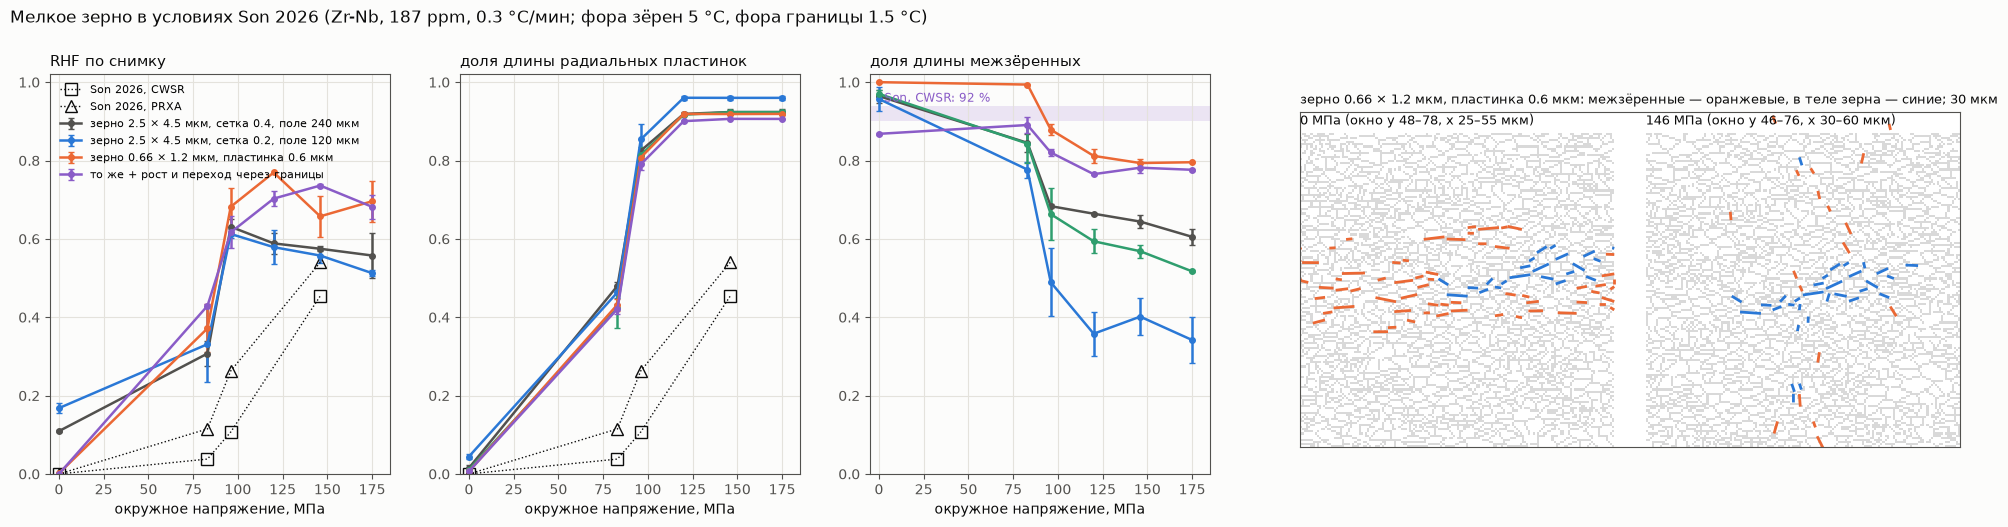
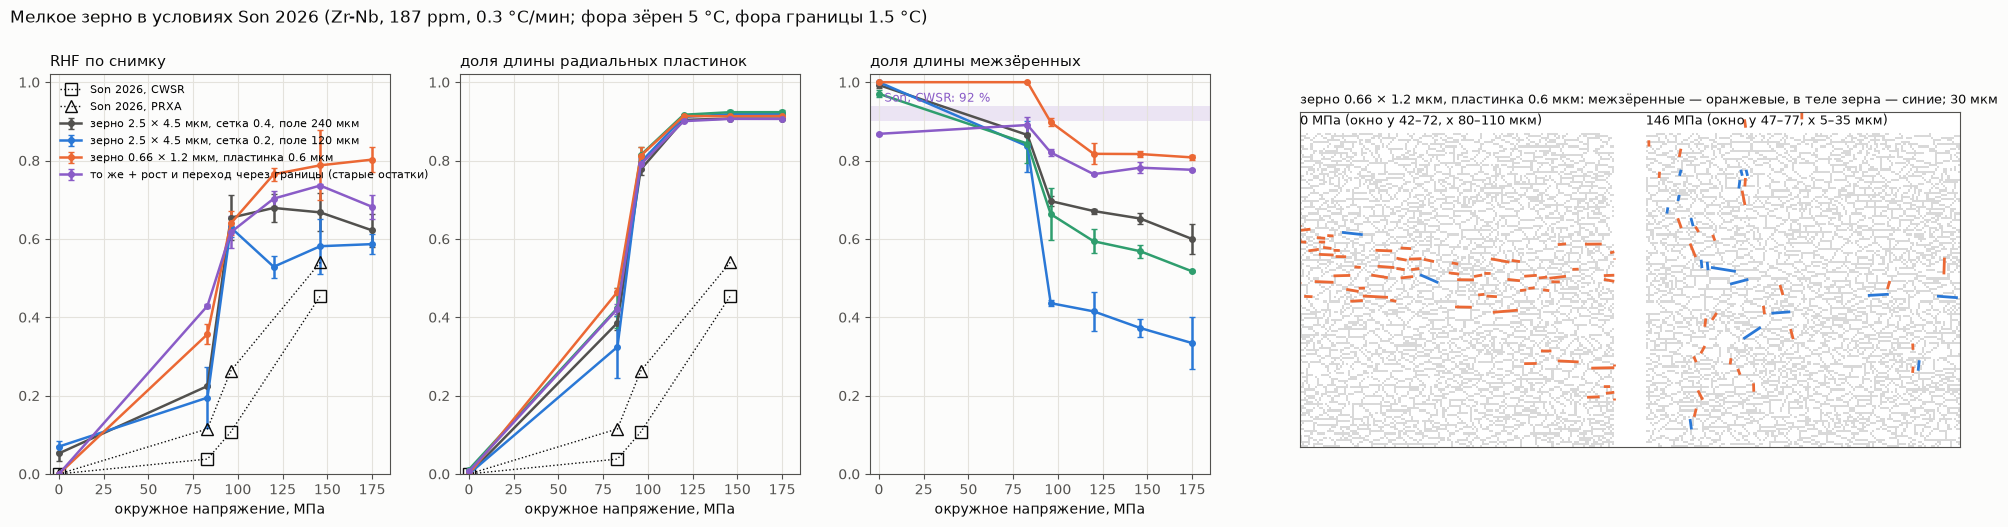
hydrides: мелкое зерно в условиях Son — плавного перехода не даёт; пересчёт с исправленными остатками
Доля радиальных пластинок от напряжения одна и та же при зерне 2.5 × 4.5 и
0.66 × 1.2 мкм, в масштабном подобии и при прежней толщине пластинки:
0.3–0.46 при 83 МПа, ~0.8 при 96, 0.9 выше 120. Мелкое зерно поднимает долю
межзёренных (0.81–0.90) и потолок на снимке. Шаг сетки на порог не влияет,
на долю межзёренных под нагрузкой — влияет. Сравнение с Son пересчитано с
исправленным выбором нерастворившихся гидридов (RHF без нагрузки 0.05).

Claude-Session: https://claude.ai/code/session_01UkwPYpG7i1Euptx7URcKD8

diff --git a/hydrides/automaton/fig_son_grain.py b/hydrides/automaton/fig_son_grain.py
@@ -1,5 +1,5 @@
 """Рис. 20: мелкое зерно в условиях опыта Son и др. 2026 — RHF по снимку, доля радиальных пластинок, доля
-межзёренных и снимок. python fig_son_grain.py папка_son_grain папка_son_run"""
+межзёренных и снимок. python fig_son_grain.py папка [папка ...] (первая — снимок)"""
 import os
 import sys
 import json
@@ -19,16 +19,20 @@ BLUE, ORANGE, GREEN, VIOLET, INK, MUTED, BG, GRID = ("#2a78d6", "#eb6834", "#2f9
 plt.rcParams.update({"font.family": "DejaVu Sans", "font.size": 10, "axes.edgecolor": MUTED, "axes.labelcolor": INK,
                      "xtick.color": MUTED, "ytick.color": MUTED})
 R = defaultdict(lambda: defaultdict(list))
-for d in sys.argv[1:3]:
+for d in sys.argv[1:]:                      # вариант — из первой папки, где он есть
+    got = defaultdict(lambda: defaultdict(list))
     for f in glob.glob(d + "/*.json"):
         m = json.load(open(f))
         if m["variant"] in ("viz5", "ref02", "fine_sim", "fine_h06", "fine_h06x"):
-            R[m["variant"]][int(m["sigma_app"])].append(m)
+            got[m["variant"]][int(m["sigma_app"])].append(m)
+    for v, by in got.items():
+        if v not in R:
+            R[v] = by
 VAR = [("viz5", MUTED, "зерно 2.5 × 4.5 мкм, сетка 0.4, поле 240 мкм"),
        ("ref02", BLUE, "зерно 2.5 × 4.5 мкм, сетка 0.2, поле 120 мкм"),
-       ("fine_sim", GREEN, "зерно 0.66 × 1.2 мкм, всё в масштабе 0.27"),
+       ("fine_sim", GREEN, "зерно 0.66 × 1.2 мкм, всё в масштабе 0.27 (старые остатки)"),
        ("fine_h06", ORANGE, "зерно 0.66 × 1.2 мкм, пластинка 0.6 мкм"),
-       ("fine_h06x", VIOLET, "то же + рост и переход через границы")]
+       ("fine_h06x", VIOLET, "то же + рост и переход через границы (старые остатки)")]
 SON = {"CWSR": {0: 0.0, 83: 0.038, 96: 0.107, 146: 0.454}, "PRXA": {0: 0.0, 83: 0.115, 96: 0.263, 146: 0.540}}
 
 

diff --git a/hydrides/automaton/fig_son.py b/hydrides/automaton/fig_son.py
@@ -1,5 +1,5 @@
 """Рис. 19: расчёт под условия Son и др. 2026 (Zr-Nb, 187 ppm, 400 °C, 0.3 °C/мин) против их опыта —
-RHF по снимку и доля межзёренных гидридов. python fig_son.py папка (son_run.py)"""
+RHF по снимку и доля межзёренных гидридов. python fig_son.py папка [папка ...] (son_run.py)"""
 import os
 import sys
 import json
@@ -16,12 +16,17 @@ BLUE, ORANGE, GREEN, VIOLET, INK, MUTED, BG, GRID = ("#2a78d6", "#eb6834", "#2f9
 plt.rcParams.update({"font.family": "DejaVu Sans", "font.size": 10, "axes.edgecolor": MUTED, "axes.labelcolor": INK,
                      "xtick.color": MUTED, "ytick.color": MUTED})
 R = defaultdict(lambda: defaultdict(list))
-for f in glob.glob(sys.argv[1] + "/*.json"):
-    m = json.load(open(f))
-    R[m["variant"]][int(m["sigma_app"])].append(m)
+for d in sys.argv[1:]:                      # вариант — из первой папки, где он есть
+    got = defaultdict(lambda: defaultdict(list))
+    for f in glob.glob(d + "/*.json"):
+        m = json.load(open(f))
+        got[m["variant"]][int(m["sigma_app"])].append(m)
+    for v, by in got.items():
+        if v not in R:
+            R[v] = by
 VAR = [("viz5", BLUE, "фора зёрен 5 °C (Vizcaíno, Zr-2.5Nb) — без подгонки"),
-       ("viz5_s2", GREEN, "то же + разброс по зёрнам 2 °C"),
-       ("viz5_s3", VIOLET, "то же + разброс по зёрнам 3 °C"),
+       ("viz5_s2", GREEN, "то же + разброс по зёрнам 2 °C (старые остатки)"),
+       ("viz5_s3", VIOLET, "то же + разброс по зёрнам 3 °C (старые остатки)"),
        ("zry10.9", MUTED, "фора 10.9 °C (калибровка на Zry-4, Cinbiz)")]
 SON = {"CWSR": {0: 0.0, 83: 0.038, 96: 0.107, 146: 0.454}, "PRXA": {0: 0.0, 83: 0.115, 96: 0.263, 146: 0.540}}
 fig, axs = plt.subplots(1, 3, figsize=(18, 5.2), facecolor=BG)
